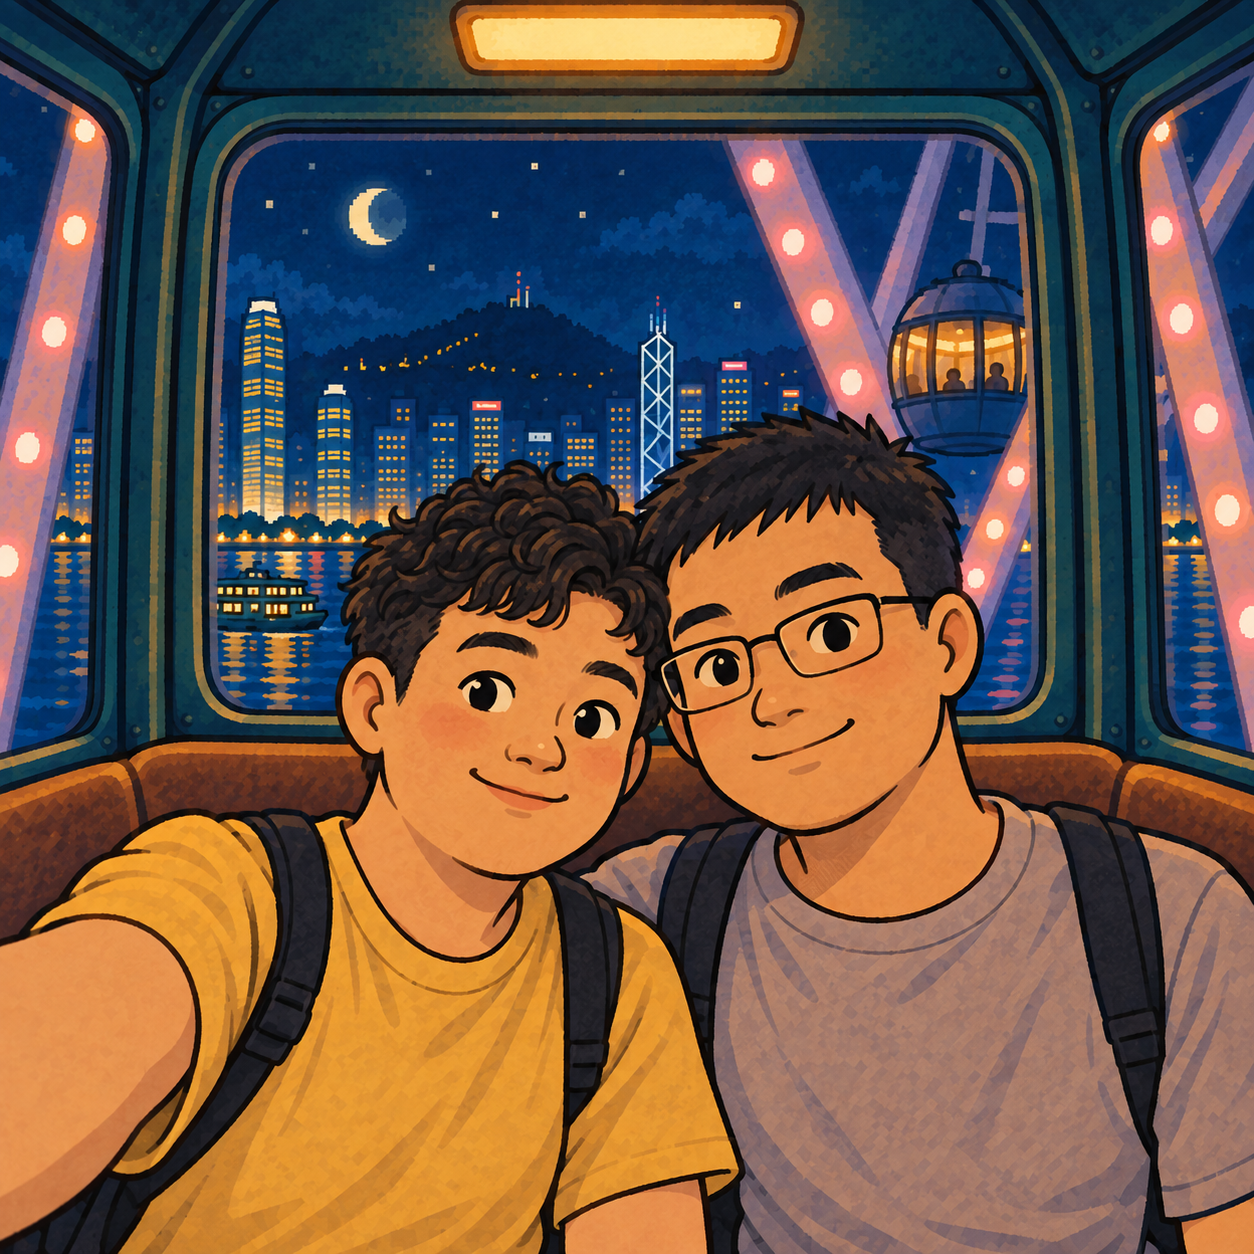
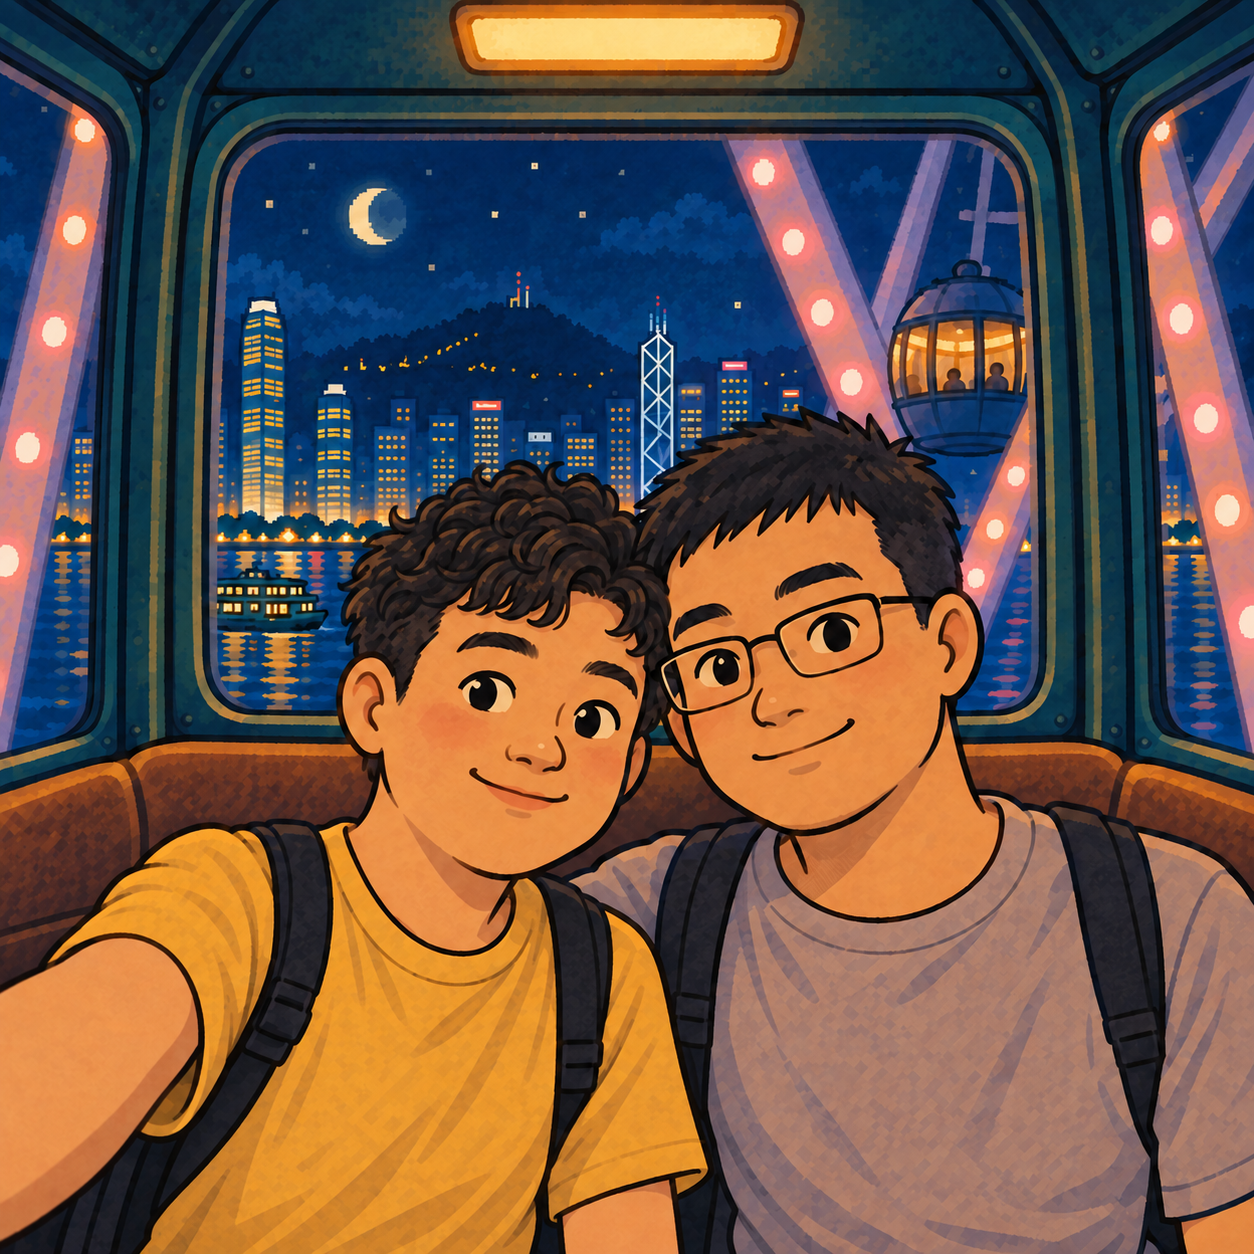
Slim yellow-shirt boy in Ferris cartoon selfie

diff --git a/art/ferris/sequence/README.md b/art/ferris/sequence/README.md
@@ -11,6 +11,6 @@ Approved visual direction, 2026-09-24. `scripts/export_ferris_playlist.swift` ex
 | `cabin-empty-source.png` | `ferris-cabin-interior` | Opposing seats and harbour window. Right cushion is empty so the existing independent phone sprite can be taken. |
 | `selfie-cartoon-source.png` | `ferris-selfie` | The same two adults as clearly drawn cartoon characters inside the carriage, for camera, collection and revisit. |
 
-The source photos `IMG_4977.HEIC` and `IMG_5036.HEIC` establish the pair's features and relationship. `IMG_6536.HEIC` is the later, controlling reference for the yellow-shirt man's fuller face and short curls. The user chose yellow short sleeves, no hat, and an unmistakably cartoon selfie. The original photographs are not included in this repository; these are newly authored game illustrations. `story-yard-base` supplies painting style, while the prior Ferris assets supply the harbour and carriage identities.
+The source photos `IMG_4977.HEIC` and `IMG_5036.HEIC` establish the pair's features and relationship. `IMG_6536.HEIC` is the later, controlling reference for the yellow-shirt man's fuller face and short curls. The user chose yellow short sleeves, no hat, an unmistakably cartoon selfie, and a modestly slimmer yellow-shirt body in the selfie. The original photographs are not included in this repository; these are newly authored game illustrations. `story-yard-base` supplies painting style, while the prior Ferris assets supply the harbour and carriage identities.
 
 All six scene sources use one eye-height spatial sequence, 1774×887 for scenes and 1254×1254 for the collectible. The first scene's iPod is held, not a booth object. Scene two's ticket emerges from its fixed front slot as a separate sprite. Scene three's ticket is used at the queue post, separate from the carriage door. In scene four the phone rests on the right bench as a separate sprite; taking it leaves the authored empty cushion. These supports, slots and anchors are defined in `FerrisLayout` on the shared 320×160 canvas. The scene art contains no game controls.
